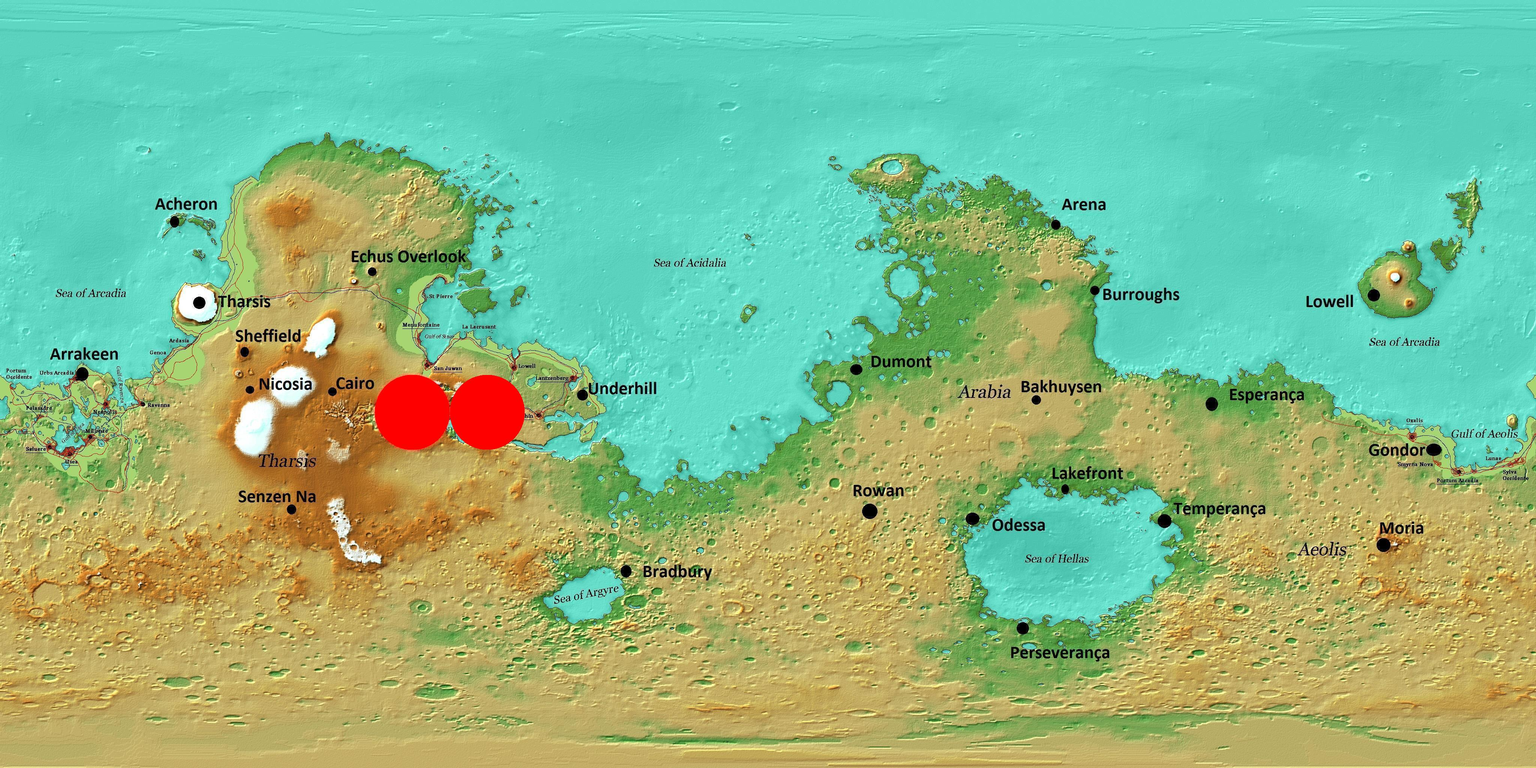
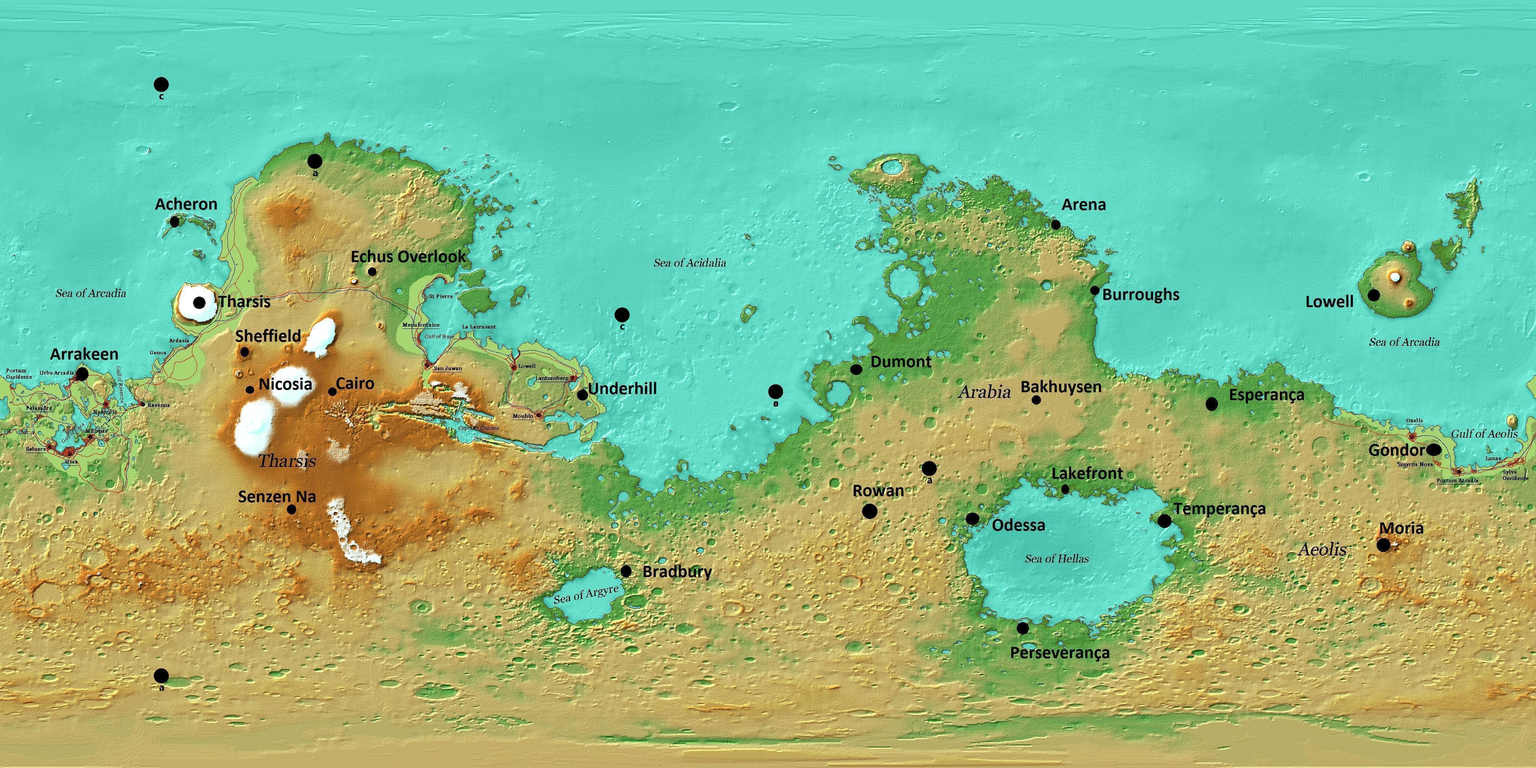
a

diff --git a/apCaminhosEmMarte/Form1.cs b/apCaminhosEmMarte/Form1.cs
@@ -19,13 +19,8 @@ namespace apCaminhosEmMarte
         public FrmCaminhos()
         {
             InitializeComponent();
-
-            
-
-
-            SalvarPontoNaImagem(1200, 1000);
             pbMapa.Image = Image.FromFile(arquivo);
-            Console.WriteLine(pbMapa.Image);
+
         }
 
 
@@ -39,6 +34,8 @@ namespace apCaminhosEmMarte
         ITabelaDeHash<Cidade> tabela;
         private PointF currentPosition;
         private Point ponto = new Point(-1, -1);
+
+
 
         private void openFileDialog1_FileOk(object sender, CancelEventArgs e)
         {
@@ -135,9 +132,13 @@ namespace apCaminhosEmMarte
 
                     InserirCidadeNoArquivo(novaCidade);
 
+                    float cordX = (float)x;
+                    float cordY = (float)y;
                     lsbCidades.Items.Add(novaCidade);
                     pbMapa.Invalidate(); // Redesenha o ImageBox para exibir o ponto
-                    SalvarPontoNaImagem(100, 100);
+                    SalvarPontoNaImagem(cordX, cordY, nomeCidade);
+
+
 
 
                 }
@@ -246,11 +247,8 @@ namespace apCaminhosEmMarte
         }
 
 
-        private void pbMapa_Paint(object sender, PaintEventArgs e)
-        {
 
-        }
-        private void SalvarPontoNaImagem(int x, int y)
+        private void SalvarPontoNaImagem(float x, float y, string a)
         {
             try
             {
@@ -267,17 +265,27 @@ namespace apCaminhosEmMarte
                 // Carrega a imagem original
                 using (Bitmap imagem = new Bitmap(caminhoOriginal))
                 {
+                    float cordX = imagem.Width * x;
+                    float cordY = imagem.Height * y;
                     // Clona a imagem original para fazer edições
                     using (Bitmap imagemEditada = new Bitmap(imagem))
                     {
                         // Desenha o ponto na imagem editada
                         using (Graphics g = Graphics.FromImage(imagemEditada))
                         {
-                            using (SolidBrush brush = new SolidBrush(Color.Red))
+                            using (SolidBrush brush = new SolidBrush(Color.Black))
                             {
-                                g.FillEllipse(brush, x - 1, y - 1, 200, 200); // O ponto será desenhado com raio 1
+                                using (Font font = new Font("Segoe UI", 20F, System.Drawing.FontStyle.Bold, System.Drawing.GraphicsUnit.Point, ((byte)(0))))
+                                {
+                                    g.FillEllipse(brush, cordX, cordY, 40, 40);
+                                    g.DrawString(a, font, brush, cordX + 10, cordY + 30);
+                                    // O ponto será desenhado com raio 1
+                                }
                             }
                         }
+
+                        // Libera a referência à imagem atual do controle PictureBox
+                        pbMapa.Image.Dispose();
 
                         // Salva a imagem editada em um arquivo temporário
                         imagemEditada.Save(caminhoTemporario, ImageFormat.Jpeg);
@@ -288,7 +296,11 @@ namespace apCaminhosEmMarte
                 File.Delete(caminhoOriginal);
                 File.Move(caminhoTemporario, caminhoOriginal);
 
+                // Carrega a imagem novamente no controle PictureBox
+                pbMapa.Image = Image.FromFile(arquivo);
+
                 MessageBox.Show("Ponto salvo na imagem com sucesso.");
+
             }
             catch (Exception ex)
             {
